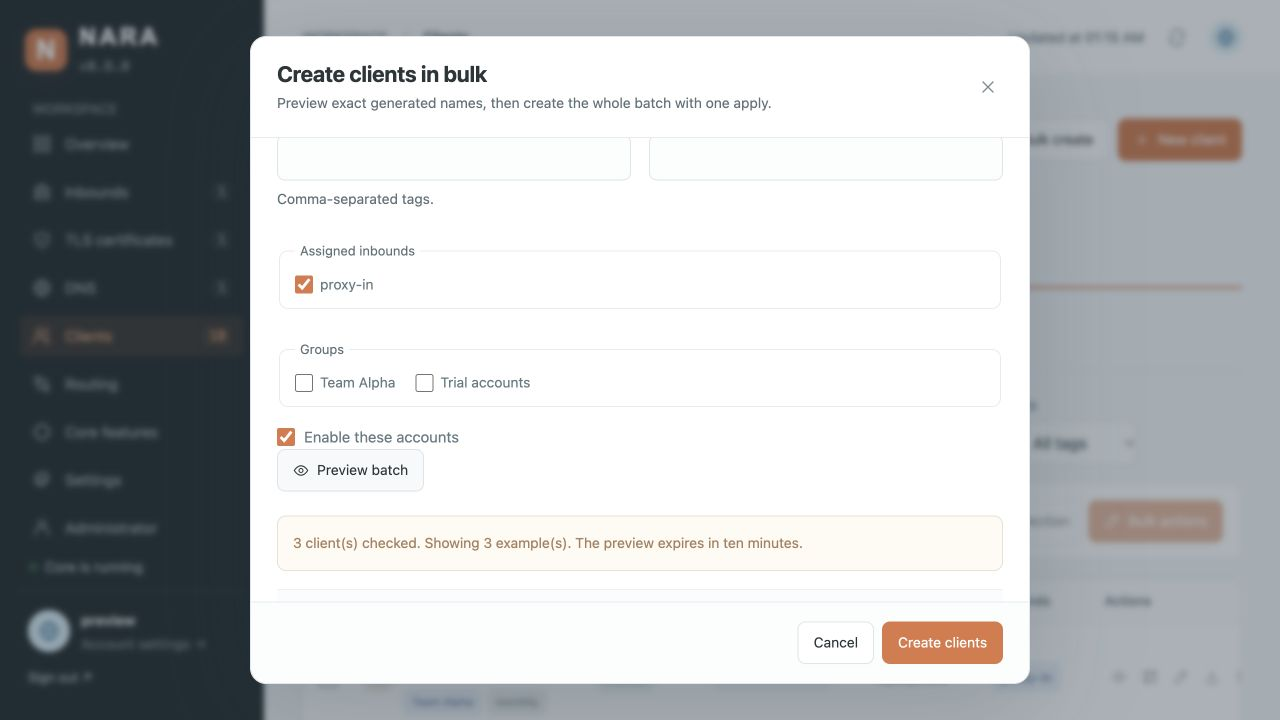
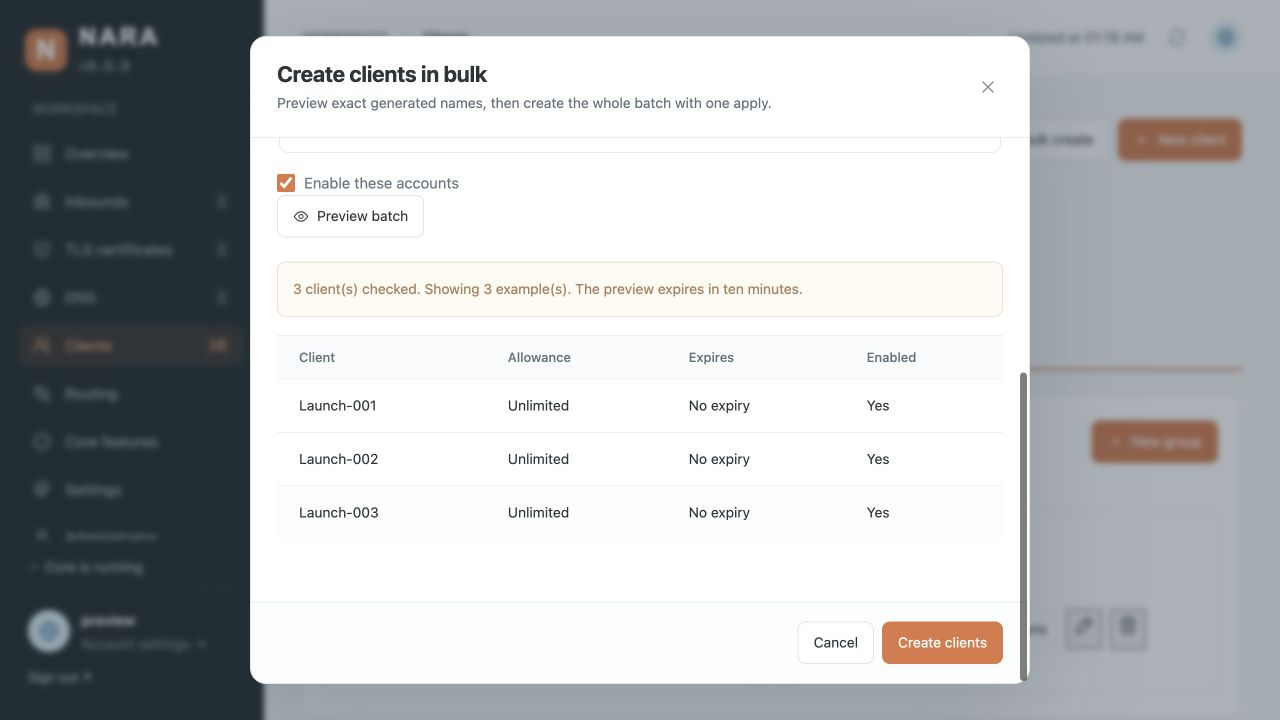
Record native Linux verification and final management preview

diff --git a/VERIFICATION.md b/VERIFICATION.md
@@ -598,3 +598,8 @@ Bulk tests check mixed-case default naming, constrained pattern parsing, duplica
 Telegram tests use mocked HTTPS responses, not a real bot: delivery defaults disabled with all 19 event categories selected; administrator reauthentication; token redaction; destination changes cancel queued events; quota/expiry and daily deduplication; sustained resource alerts/recovery; core transitions; bounded fixed-host transport; sanitized errors, rate limits and retries; chat discovery returns IDs/names without message text. **Live Telegram delivery was not tested and no message was sent to a real destination.** It requires user-provided bot credentials. The in-process worker cannot report a whole-host outage while offline.
 
 An isolated preview with 18 demonstration accounts and the actual local core was inspected at 1280×720 and 390×844. Checks confirmed random ten-letter names, exact bulk previews, disabled save after editing a preview, selection retained across pages, group management, default read-only API permission, all 19 Telegram events selected with delivery disabled, account controls, About and mobile layout. Document and viewport widths were both 390 px. [Administrator](screenshots/account-0.8.0.jpg), [bulk preview](screenshots/clients-bulk-0.8.0.jpg) and [mobile profile](screenshots/account-mobile-0.8.0.jpg) contain demonstration account data. Sensitive credential/2FA changes were verified through isolated backend tests; browser forms were inspected without submitting credentials. No production server was accessed or modified.
+
+
+[Native Linux run 39072562798](https://github.com/kevinzakarian/Nara-Panel/actions/runs/39072562798), at implementation commit `7ad6f7ba78a9f8cae9b752b75557ff017f7c956d`, passed all jobs: **96 tests on amd64 and 96 on arm64** in Go-free/Git-free Python containers, service-unit validation and the real path-triggered systemd update fixture with a live service-owned WAL database. The archive uses the existing verified updater extraction path; every bundled file was compared with its workspace source, with no private database or cache included.
+
+The disposable core was stopped and restarted explicitly: DOM/computed-style checks showed `status-dot off`, red RGB(240,107,112), and `status-dot on`, green RGB(73,207,137), both with the core-status pulse animation. The preview service/core, temporary private state and agent-created browser tab were closed/removed after review; the viewport override was reset.
